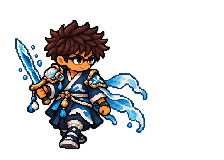
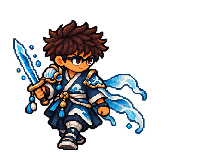
Refine Jao character sprites and movement

Changed region(s): [[0.0312, 0.125, 0.6875, 0.9375]]

diff --git a/src/scenes/ArenaScene.ts b/src/scenes/ArenaScene.ts
@@ -288,9 +288,9 @@ export class ArenaScene extends Phaser.Scene {
   private animateHero(mx: number, my: number): void {
     const moving = Math.hypot(mx, my) > 0.15;
     if (moving && this.attackPose <= 0) this.facing = Math.abs(mx) > Math.abs(my) ? mx > 0 ? 'east' : 'west' : my < 0 ? 'north' : 'south';
-    const baseKey = !moving || this.facing === 'south' ? this.selectedHero
+    const baseKey = this.facing === 'south' ? this.selectedHero
       : this.facing === 'north' ? `${this.selectedHero}-back`
-      : `${this.selectedHero}-walk${Math.floor(this.elapsed * 8) % 2 + 1}`;
+      : `${this.selectedHero}-walk${moving ? Math.floor(this.elapsed * 8) % 2 + 1 : 1}`;
     const form = this.selectedHero === 'jao'
       ? jaoFormTextureSuffix(this.affinities) || (activeSynergy(this.affinities) === 'plasma' ? '-plasma' : '')
       : '';
@@ -303,8 +303,9 @@ export class ArenaScene extends Phaser.Scene {
     }
     this.heroSprite.setFlipX(this.facing === 'west');
     this.heroSprite.setOrigin(this.facing === 'west' ? 144 / 224 : 80 / 224, 0.5);
-    this.heroSprite.y = -19 + (moving ? Math.sin(this.elapsed * 16) * 2 : 0);
-    this.heroSprite.angle = moving ? Math.sin(this.elapsed * 8) * 1.5 : 0;
+    const verticalStep = moving && (this.facing === 'north' || this.facing === 'south');
+    this.heroSprite.y = -19 + (verticalStep ? Math.abs(Math.sin(this.elapsed * 12)) * 1.2 : Math.sin(this.elapsed * 2) * 0.35);
+    this.heroSprite.angle = 0;
   }
 
   private createEnemy(x: number, y: number, kind: EnemyKind): Enemy {
@@ -587,20 +588,12 @@ export class ArenaScene extends Phaser.Scene {
     this.fireTimer = WEAPONS[this.weapon].cadence;
     this.drawEnergy();
     this.soundscape.play('shot');
-    this.attackPose = 0.18;
+    this.attackPose = 0.22;
     this.facing = this.weapon === 'bolt' && Math.abs(dy) > Math.abs(dx) * 1.7
       ? dy < 0 ? 'north' : 'south' : dx < 0 ? 'west' : 'east';
     this.animateHero(0, 0);
     if (this.weapon === 'bolt') {
       const angle = Math.atan2(dy, dx);
-      const slash = this.add.graphics().setDepth(12);
-      slash.lineStyle(13, 0x342733, 0.9);
-      slash.beginPath(); slash.arc(this.heroX, this.heroY - 8, 78, angle - 0.73, angle + 0.73); slash.strokePath();
-      slash.lineStyle(8, shots[0].color, 1);
-      slash.beginPath(); slash.arc(this.heroX, this.heroY - 8, 78, angle - 0.73, angle + 0.73); slash.strokePath();
-      slash.lineStyle(3, 0xfff4d4, 0.95);
-      slash.beginPath(); slash.arc(this.heroX, this.heroY - 8, 83, angle - 0.62, angle + 0.62); slash.strokePath();
-      this.tweens.add({ targets: slash, alpha: 0, scale: 1.12, duration: 170, onComplete: () => slash.destroy() });
       for (const enemy of [...this.enemies]) {
         const reach = Math.hypot(enemy.x - this.heroX, enemy.y - this.heroY);
         const deviation = Math.atan2(Math.sin(Math.atan2(enemy.y - this.heroY, enemy.x - this.heroX) - angle),

diff --git a/scripts/build_jao_elemental_sprites.py b/scripts/build_jao_elemental_sprites.py
@@ -15,6 +15,8 @@ ROOT = Path(__file__).resolve().parents[1]
 SHEETS = ROOT / "art" / "sheets"
 ASSETS = ROOT / "src" / "assets"
 ELEMENTS = ("earth", "water", "fire", "lightning", "light", "shadow")
+ATTACK_SHEETS = {element: SHEETS / f"jao-attack-{element}-v2.png" for element in ELEMENTS}
+LIGHTNING_SHEET = "jao-lightning-attunement-v2.png"
 FRAME_SIZE = (224, 160)
 # Alpha-bounds of jao-armed, jao-walk1-armed, jao-walk2-armed and
 # jao-back-armed, respectively. Keep evolved silhouettes aligned to the
@@ -30,7 +32,7 @@ def make_frame(atlas: Image.Image, cell: int) -> Image.Image:
     x1 = width if cell % 2 else width // 2
     y1 = height if cell // 2 else height // 2
     frame = atlas.crop((x0, y0, x1, y1)).convert("RGBA")
-    alpha = frame.getchannel("A")
+    alpha = frame.getchannel("A").point(lambda value: 255 if value >= 32 else 0)
     bounds = alpha.getbbox()
     if bounds is None:
         raise ValueError(f"Empty sprite cell {cell}")
@@ -50,9 +52,36 @@ def make_frame(atlas: Image.Image, cell: int) -> Image.Image:
     return canvas
 
 
+def make_attack_frame(source: Path) -> Image.Image:
+    image = Image.open(source).convert("RGBA")
+    alpha = image.getchannel("A").point(lambda value: 255 if value >= 32 else 0)
+    bounds = alpha.getbbox()
+    if bounds is None:
+        raise ValueError(f"Empty attack pose: {source}")
+    figure = image.crop(bounds)
+    height = POSE_HEIGHTS[0]
+    scale = height / figure.height
+    width = round(figure.width * scale)
+    if width > FRAME_SIZE[0]:
+        scale = FRAME_SIZE[0] / figure.width
+        width = FRAME_SIZE[0]
+        height = round(figure.height * scale)
+    if height < 118:
+        raise ValueError(f"Attack pose is too wide for the character scale: {source} ({width}×{height})")
+    figure = figure.resize((width, height), Image.Resampling.NEAREST)
+    figure.putalpha(figure.getchannel("A").point(lambda value: 0 if value < 32 else value))
+    canvas = Image.new("RGBA", FRAME_SIZE, (0, 0, 0, 0))
+    canvas.alpha_composite(figure, (ANCHOR_X - width // 2, BASELINE_Y - height))
+    visible = canvas.getchannel("A").getbbox()
+    if visible is None or visible[3] != BASELINE_Y:
+        raise ValueError(f"Attack pose missed the shared foot baseline: {source} ({visible})")
+    return canvas
+
+
 def main() -> None:
     for element in ELEMENTS:
-        source = SHEETS / f"jao-{element}-attunement.png"
+        source_name = LIGHTNING_SHEET if element == "lightning" else f"jao-{element}-attunement.png"
+        source = SHEETS / source_name
         atlas = Image.open(source).convert("RGBA")
         if atlas.width != atlas.height:
             raise ValueError(f"Expected square atlas: {source}")
@@ -65,9 +94,8 @@ def main() -> None:
         )
         for name, frame in zip(names, frames):
             frame.save(ASSETS / name, optimize=True)
-        # The active slash pose reuses the second distinct step; combat trails
-        # and elemental geometry are rendered separately in the scene.
-        frames[2].save(ASSETS / f"jao-attack-{element}.png", optimize=True)
+        attack = make_attack_frame(ATTACK_SHEETS[element])
+        attack.save(ASSETS / f"jao-attack-{element}.png", optimize=True)
 
 
 if __name__ == "__main__":

diff --git a/docs/09-JAO-SINTONIAS-E-ASSETS.md b/docs/09-JAO-SINTONIAS-E-ASSETS.md
@@ -21,11 +21,17 @@ Todas as habilidades miram automaticamente o inimigo visível mais próximo, man
 | --- | --- |
 | Referência de roupa/arma/efeito | docs/visual/jao-elementos/v1/ contém as pranchas das cinco formas. |
 | Matrizes originais com poses | art/sheets/jao-{terra,agua,fogo,raio,luz,sombra}-attunement.png, cada uma em grade transparente 2×2: frente, passo A, passo B e costas. |
-| Sprites carregados pelo jogo | src/assets/jao-{element}-armed.png, jao-walk1-{element}-armed.png, jao-walk2-{element}-armed.png, jao-back-{element}-armed.png e jao-attack-{element}.png. |
+| Sprites carregados pelo jogo | `src/assets/jao-{element}-armed.png`, `jao-walk1-{element}-armed.png`, `jao-walk2-{element}-armed.png`, `jao-back-{element}-armed.png` e `jao-attack-{element}.png`. Os seis PNGs de ataque agora usam poses próprias, alinhadas no canvas `224×160`; não reutilizam mais um passo de caminhada. |
 | Efeitos de habilidade | `src/assets/vfx-jao-*.png`: seis spritesheets originais, uma por forma, quatro quadros por folha e canal alfa. Phaser reproduz a animação a 12 quadros por segundo e orienta o efeito na direção do alvo. |
 | Pipeline reproduzível | python scripts/build_jao_elemental_sprites.py recorta as matrizes, reduz com vizinho mais próximo e alinha os PNGs no canvas 224×160 usado pelos outros frames. Requer Pillow. |
 
-As imagens de conceito, matrizes e efeitos foram gerados para este projeto. Os sprites de personagem são versões recortadas e alinhadas das matrizes; os efeitos especiais agora são artes animadas em PNG com transparência. Artefatos de direção visual servem para validar resultado em jogo, escala e legibilidade.
+As imagens de conceito, matrizes, poses de ataque e efeitos foram gerados para este projeto. Os sprites de personagem são versões recortadas e alinhadas das matrizes; os efeitos especiais agora são artes animadas em PNG com transparência. A forma Raio usa uma matriz atualizada sem espada: a descarga parte da mão aberta. As outras formas mantêm a espada integrada ao corpo. Artefatos de direção visual servem para validar resultado em jogo, escala e legibilidade.
+
+### Refinamento de animação e golpes (13/10/2026)
+
+O ciclo lateral alterna os dois passos apenas durante movimento; ao parar, conserva a direção e usa uma pose estável. Movimento vertical usa frente/costas com um balanço curto, sem inclinar o personagem nem deslocar os pés. O corte básico usa uma pose de ataque própria para cada sintonia nas direções laterais e já não sobrepõe um arco temporário desenhado por código. Os golpes verticais preservam a pose frontal/costas até haver ilustrações direcionais próprias.
+
+As novas matrizes e poses de ataque ficam em `art/sheets/*-v2.png`; `scripts/build_jao_elemental_sprites.py` faz o recorte por alfa, escala e baseline reproduzíveis. A prévia dos seis golpes foi conferida como conjunto; o encaixe em combate ainda deve ser observado no Pages e em aparelho antes de declarar a animação aprovada.
 
 ### Correção de escala das formas
 
@@ -38,11 +44,11 @@ Prévia lado a lado: [Jão base e seis formas na escala corrigida](visual/jao-fo
 ## Assets previstos para a etapa de acabamento
 
 - Quatro vistas direcionais e dois passos por direção para cada forma, depois que a leitura das atuais for validada.
-- Quadros exclusivos de ataque, dano, recuperação e esquiva quando as ações exigirem poses próprias.
+- Quadros direcionais de ataque, dano, recuperação e esquiva quando as ações exigirem poses próprias; os golpes laterais básicos já têm poses exclusivas.
 - Folhas de sprites com grade e pontos de ancoragem documentados, mais variantes sem espada apenas se uma habilidade realmente a retirar da mão.
 - Quadros direcionais adicionais para os efeitos elementais, caso o playtest mostre que a rotação da folha atual não lê bem em todas as direções.
 - Ícone curto de cada habilidade e arte do altar para explicar o desbloqueio de forma dentro da run.
 
 ## Validação ainda pendente
 
-Typecheck, testes de regras e build local passaram após a integração das seis spritesheets. A checagem visual das habilidades no Pages e o teste físico no celular horizontal continuam pendentes. As habilidades e valores são uma primeira versão para playtest e podem ser ajustados sem alterar as combinações híbridas.
+Typecheck, testes de regras e build local passaram após a integração das seis spritesheets. A checagem dos golpes e habilidades no Pages e o teste físico no celular horizontal continuam pendentes. As habilidades e valores são uma primeira versão para playtest e podem ser ajustados sem alterar as combinações híbridas.

diff --git a/docs/04-ROADMAP.md b/docs/04-ROADMAP.md
@@ -13,7 +13,7 @@ Cada tarefa termina com commit/PR, teste no Pages quando houver interface, atual
 | T007 | Chefe com ataques sinalizados e encerramento da run | T006 | Vitória e derrota completas; relatório com seed e tempo. **Vertical slice P1.** |
 | T008 | Playtest P1 e revisão de desempenho/controles | T007 | Testes no Android e desktop; bugs de bloqueio e mortes sem feedback corrigidos. **Aceite do MVP para seguir em 12/10/2026.** Não há registro de aparelho, FPS ou run completa, então esses casos permanecem em observação para o beta. |
 | T009 | Direção de arte autoral, UI, áudio e créditos | T008 | Origem rastreável para cada asset; leitura do combate preservada. A v0.2 em pixel art foi aprovada e integrada em abertura, seleção, Átrio, Forja, personagens e HUD. Sons Web Audio originais com mudo. O novo altar e inimigos têm arte própria; faltam refinamento e escuta em aparelho. |
-| T010 | Personagens Junq, masmorras e afinidades | T008, T009 | Jão/Alice/Gui com espada, arco e cartas; cinco fases por mundo, chefe na quinta, baús 1/5 e 3/5, altares 2/5 e 4/5. Três regiões visuais iniciais, cinco criaturas, relíquias de vida/escudo/energia, Plasma e Lodo. **Implementado:** seis formas puras do Jão (Terra, Água, Fogo, Raio, Luz e Sombra) com roupas/sprites e habilidades próprias; modo ADM por `?admin=1` para selecionar formas, invocar inimigos e restaurar vida/energia; escala das formas alinhada à altura visível do Jão base. **Efeitos especiais em arte:** seis spritesheets PNG transparentes de quatro quadros ligadas às habilidades puras; as regras de dano, alcance e deslocamento foram preservadas. Alice mantém a rajada de flechas e Gui o leque de cartas (commits anteriores `d910a72`, `d42fc7f`); typecheck, quatro arquivos de testes e build passam localmente. A integração das spritesheets aguarda publicação pelo workflow do repositório. **Em execução:** validar cada habilidade no Pages via ADM, percorrer a run, criar arte própria da Cripta, formas dos outros heróis e balancear em aparelho. Ver [formas/assets do Jão](09-JAO-SINTONIAS-E-ASSETS.md), [masmorras](08-MASMORRAS-E-RELIQUIAS.md) e [modo ADM](10-MODO-ADM-VALIDACAO.md).
+| T010 | Personagens Junq, masmorras e afinidades | T008, T009 | Jão/Alice/Gui com espada, arco e cartas; cinco fases por mundo, chefe na quinta, baús 1/5 e 3/5, altares 2/5 e 4/5. Três regiões visuais iniciais, cinco criaturas, relíquias de vida/escudo/energia, Plasma e Lodo. **Implementado:** seis formas puras do Jão (Terra, Água, Fogo, Raio, Luz e Sombra) com roupas/sprites e habilidades próprias; modo ADM por `?admin=1` para selecionar formas, invocar inimigos e restaurar vida/energia; escala das formas alinhada à altura visível do Jão base; ciclos lateral e vertical refinados; seis poses de ataque lateral autorais no mesmo canvas e baseline; forma Raio v2 sem espada, com descarga na mão. Seis spritesheets transparentes de quatro quadros continuam ligadas às habilidades puras; as regras de dano, alcance e deslocamento foram preservadas. Alice mantém a rajada de flechas e Gui o leque de cartas (commits anteriores `d910a72`, `d42fc7f`); typecheck, quatro arquivos de testes e build passam localmente. **Em execução:** publicar e observar os novos golpes/poses no Pages via ADM, percorrer a run, criar arte própria da Cripta, formas dos outros heróis e balancear em aparelho. Ver [formas/assets do Jão](09-JAO-SINTONIAS-E-ASSETS.md), [masmorras](08-MASMORRAS-E-RELIQUIAS.md) e [modo ADM](10-MODO-ADM-VALIDACAO.md).
 | T011 | Hub, desbloqueios, save com migração, opções e onboarding | T008 | Persistência após fechar/reabrir; reset e recuperação de save inválido. |
 | T012 | Beta fechado e polimento | T009–T011 | Jogadores novos concluem tentativa; erros de console, input e save monitorados. |
 | T013 | Lançamento web | T012 | CI e Pages verdes, créditos, instruções, changelog e teste final em dispositivos. |

diff --git a/docs/HANDOFF.md b/docs/HANDOFF.md
@@ -122,3 +122,15 @@ O commit [`d910a72`](https://github.com/JaoDaJunq/Junq_SoulKnight/commit/d910a72
 As seis artes de ataque foram integradas em `src/assets/vfx-jao-*.png`. Cada folha tem quatro quadros de 512×512 em linha horizontal, canal alfa e reprodução a 12 fps. `ArenaScene` carrega as folhas com Vite, cria animações do Phaser e usa cada forma em sua habilidade; efeitos procedurais principais dessas seis habilidades foram removidos. Dano, lentidão, alcance, recarga, teleporte e eco permanecem iguais. Os efeitos de Alice, Gui e o corte básico do Jão não mudaram. `CREDITS.md` registra a procedência das imagens. Implementação e assets preparados na branch `feat/jao-attack-art`; aguardando revisão e deploy.
 
 Validação local: `npm run typecheck`, `npm test` (4 arquivos; tudo passou) e `npm run build` passaram. O build inclui os seis PNGs; permanece o aviso conhecido de chunk Phaser acima de 500 kB. A abertura do servidor Vite foi bloqueada no ambiente por `listen EPERM`, então não houve inspeção visual via navegador nesta rodada. O Pages ainda depende de CI/deploy após integração no repositório.
+
+## Revisão de implementação, animação e sprites do Jão (13/10/2026)
+
+Critérios: manter a direção chibi e armas incorporadas; deixar o ciclo de movimento estável ao parar e coerente nas quatro direções; dar ao corte básico poses próprias; fazer a forma Raio emitir energia da mão, sem espada; manter dimensões e baseline no pipeline existente.
+
+- Corrigida a seleção de pose: Jão mantém a direção quando para, alterna passos laterais apenas em movimento e não inclina o sprite; o deslocamento vertical usa as poses de frente/costas com um balanço sutil.
+- Seis golpes básicos de lado agora usam artes PNG próprias, em vez de reaproveitar um frame de caminhada. Removido o arco procedural duplicado que se sobrepunha à arte do golpe. Os ataques verticais ainda usam frente/costas.
+- A matriz v2 de Raio remove a espada e concentra o relâmpago na mão aberta. A forma base mantém a espada; as demais formas elementais seguem armadas.
+- O pipeline recorta por alpha útil, reduz por vizinho mais próximo e centra os PNGs no canvas `224×160` com pés em `y=150`; falha se o ataque perder escala ou baseline. Matrizes-fonte e poses v2 estão registradas em `CREDITS.md`.
+- Inspeção em contato dos seis ataques confirmou leitura coerente de roupa, silhueta, arma e efeito por forma. Ainda não houve inspeção dos golpes em execução no Pages nem teste físico no celular.
+
+Validação local: `npm run typecheck`, `npm test` (4 arquivos, 4 passaram) e `npm run build` passaram. Build gera os seis PNGs; permanece o aviso de bundle Phaser maior que 500 kB. Pages e GitHub Actions: verificar após abrir PR. Próximo: conferir ataque lateral e direções no Pages via ADM e testar em celular horizontal; T010 segue aberto.

diff --git a/CREDITS.md b/CREDITS.md
@@ -14,6 +14,7 @@
 | Flecha e três cartas de projétil em `src/assets/`; armas da iteração anterior arquivadas | Pixel art desenhada por primitivas no script reproduzível `scripts/make_weapon_art.py`. Os projéteis seguem na build; a espada, arco e leque separados não são mais carregados. | Conteúdo original deste projeto. |
 | Três pranchas aprovadas em `docs/visual/*-arma-aprovada.webp`; matrizes transparentes em `art/sheets/`; PNGs `*-armed`, `*-attack` e `*-select` | Pranchas e poses geradas para este projeto com referências dos sprites autorais anteriores. `alice-chibi.webp` e `gui-chibi.webp` foram redesenhadas com a proporção do Jão; `scripts/build_approved_sprites.py` recorta e alinha os frames e deriva as formas do Jão. As fotografias fornecidas pelo MVP não são distribuídas. | Conteúdo original deste projeto; nenhuma arte de Soul Knight incorporada. As antigas matrizes altas e armas em camada separada ficam apenas como registro da iteração anterior. |
 | Matrizes 2×2 de Terra, Água, Fogo, Raio, Luz e Sombra do Jão em art/sheets/jao-*-attunement.png; poses e sprites correspondentes em src/assets/ | Gerados para o projeto usando como referência as pranchas elementais aprovadas e o sprite jogável do Jão. scripts/build_jao_elemental_sprites.py recorta quatro poses e as reduz no canvas 224×160. | Arte original deste projeto; conceitos orientam a forma e nenhuma arte de Soul Knight foi incorporada. |
+| Matrizes 2×2 e seis poses de ataque v2 em `art/sheets/*-v2.png`; sprites de ataque em `src/assets/jao-attack-*.png` | Gerados para este projeto com base nas formas aprovadas do Jão. As poses de ataque têm transparência e são recortadas/alinhadas pelo pipeline `scripts/build_jao_elemental_sprites.py`; a matriz Raio v2 mostra descarga saindo da mão aberta e não contém espada. | Arte original deste projeto; sem arte externa incorporada. |
 | Efeitos das seis habilidades puras do Jão em `src/assets/vfx-jao-*.png` | Spritesheets em pixel art geradas para este projeto a partir das referências aprovadas de cada forma; cada PNG tem quatro quadros de 512×512 com transparência. O Phaser anima os quadros; `src/content/jaoMasteries.ts` mantém nomes, dano e regras. | Conteúdo original deste projeto; sem arte externa incorporada. |
 | Engine e build | Phaser 3, TypeScript e Vite | Dependências sob suas licenças próprias no lockfile e pacotes. |
 

diff --git a/README.md b/README.md
@@ -2,7 +2,7 @@
 
 Planejamento de um jogo autoral 2D de ação, roguelite e tiro com visão superior, inspirado no **ritmo de salas, escolhas e combates** de Soul Knight. Nome de trabalho; título, mundo e arte finais serão próprios. Primeiro destino: navegador e GitHub Pages. Depois: aplicativo Android e, se fizer sentido, iOS.
 
-> Estado em 13/10/2026: **vertical slice web aprovado pelo MVP para avançar** no [GitHub Pages](https://jaodajunq.github.io/Junq_SoulKnight/). Mira automática e energia permanecem; baús de armas deram lugar a altares de afinidade. A direção de pixel art inclui abertura, seleção, salas do Átrio/Forja, HUD e inimigos próprios. O Jão transforma roupa e sprites ao chegar a 5 pontos em Terra, Água, Fogo, Raio, Luz ou Sombra; cada forma tem habilidade própria. O modo ADM para validar formas e inimigos foi adicionado; falta playtest visual de cada habilidade. T010 continua em execução. Não há APK.
+> Estado em 13/10/2026: **vertical slice web aprovado pelo MVP para avançar** no [GitHub Pages](https://jaodajunq.github.io/Junq_SoulKnight/). Mira automática e energia permanecem; baús de armas deram lugar a altares de afinidade. A direção de pixel art inclui abertura, seleção, salas do Átrio/Forja, HUD e inimigos próprios. O Jão transforma roupa e sprites ao chegar a 5 pontos em Terra, Água, Fogo, Raio, Luz ou Sombra; cada forma tem habilidade própria e pose de ataque lateral dedicada. O modo ADM permite validar formas e inimigos. Falta observar os novos golpes no Pages e fazer playtest visual de cada habilidade. T010 continua em execução. Não há APK.
 
 As seis habilidades puras do Jão usam spritesheets de pixel art com quatro quadros e transparência, carregadas como animações no Phaser. O modo ADM (`?admin=1`) permite selecionar uma forma, invocar inimigos e testar cada golpe sem refazer a run.
 
